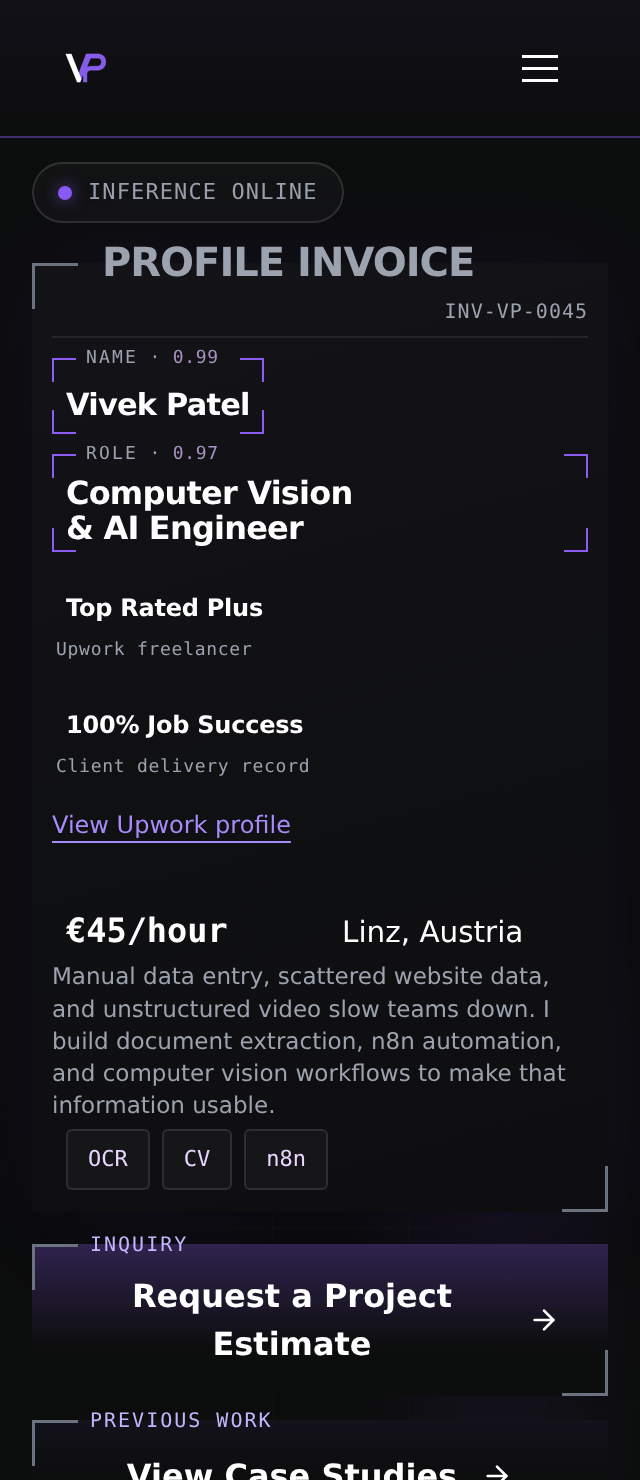
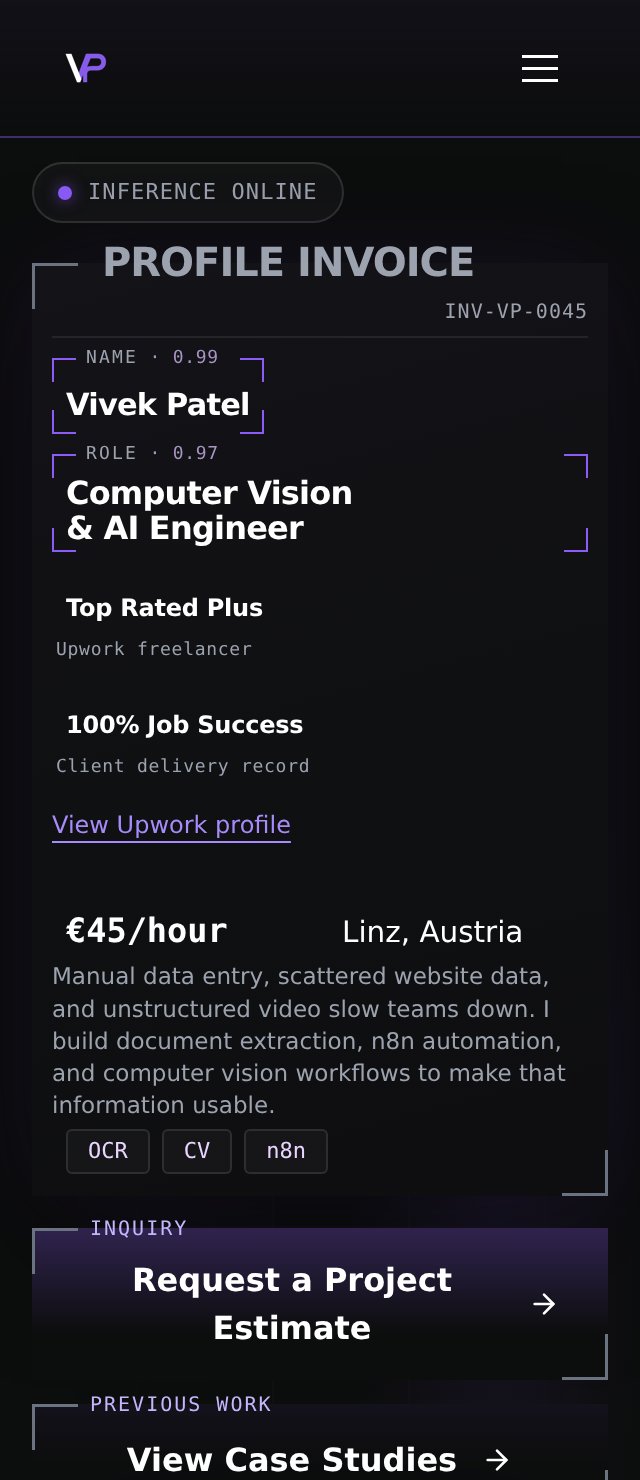
fix: trim narrow hero chip padding for approved copy

diff --git a/src/components/Hero.jsx b/src/components/Hero.jsx
@@ -399,7 +399,7 @@ const Hero = () => {
                   {['OCR', 'CV', 'n8n'].map((tag) => (
                     <span
                       key={tag}
-                      className="font-mono text-[11px] text-purple-200 px-2.5 py-1.5 rounded-[3px] border border-white/[0.1] bg-white/[0.03]"
+                      className="font-mono text-[11px] text-purple-200 px-2.5 py-1.5 max-[359px]:py-0.5 rounded-[3px] border border-white/[0.1] bg-white/[0.03]"
                     >
                       {tag}
                     </span>

diff --git a/docs/qa/2026-10-14-issue-365-buyer-copy.md b/docs/qa/2026-10-14-issue-365-buyer-copy.md
@@ -33,3 +33,11 @@ The listed dimensions are CSS viewport sizes; saved T3 images use their own capt
 | Weekly update promise | [Delivery rows](assets/issue-365/desktop-updates.png) | [Delivery rows](assets/issue-365/mobile-updates.png) |
 
 [Narrow hero at 320×740](assets/issue-365/narrow-hero.png) shows the existing stacked fields and wrapping introduction. The complete featured trio is verified through rendered destinations and browser navigation checks; one mobile viewport does not contain all three stacked cards.
+
+## First-screen CI repair
+
+On `b90088d`, Chromium shards 2 and 4 failed the existing 320×640 first-screen assertion: the estimate button ended at 643.65625px and 643.8125px. The longer approved introduction used more vertical space. The correction reduces only static OCR/CV/n8n chip padding from 6px to 2px above and below at the existing `max-[359px]` breakpoint, removing 8px from the invoice. Copy, font sizes, field spacing, motion, and the confirmed 16px invoice-to-actions gap stay intact. The first-screen test is unchanged.
+
+The production build, all 49 hero unit tests, and 18 Chromium responsive checks passed after the correction. Those browser checks cover the invoice gaps at 320, 390, 720, 768, 1024, and 1440px and the first-screen layouts at 390×844, 768×900, and 1280×720 in both desktop and mobile projects. Independent Standards and Spec reviews found no issues with the correction. The narrow screenshot above was refreshed.
+
+This host's DejaVu fallback produces a taller 320px layout than CI. A temporary DOM comparison with the original introduction and original chip padding already placed the estimate-button bottom at 665.53125px locally; the corrected approved introduction ends at 689.796875px here. Both exceed 640px locally, so the hosted rerun must establish 320×640 acceptance. The local correction was measured as exactly 8px while preserving the 16px gap and avoiding horizontal overflow. Temporary font experiments did not change the site's font configuration or the host configuration.
